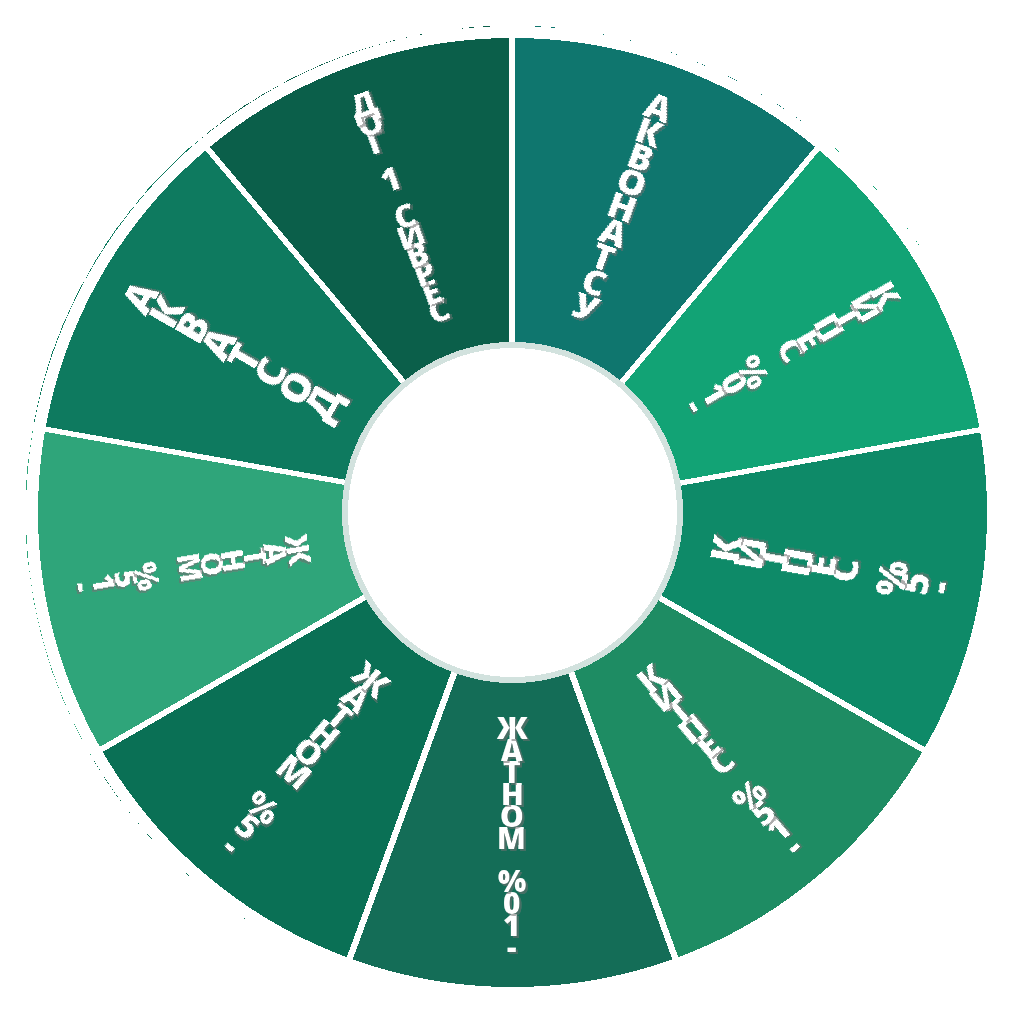
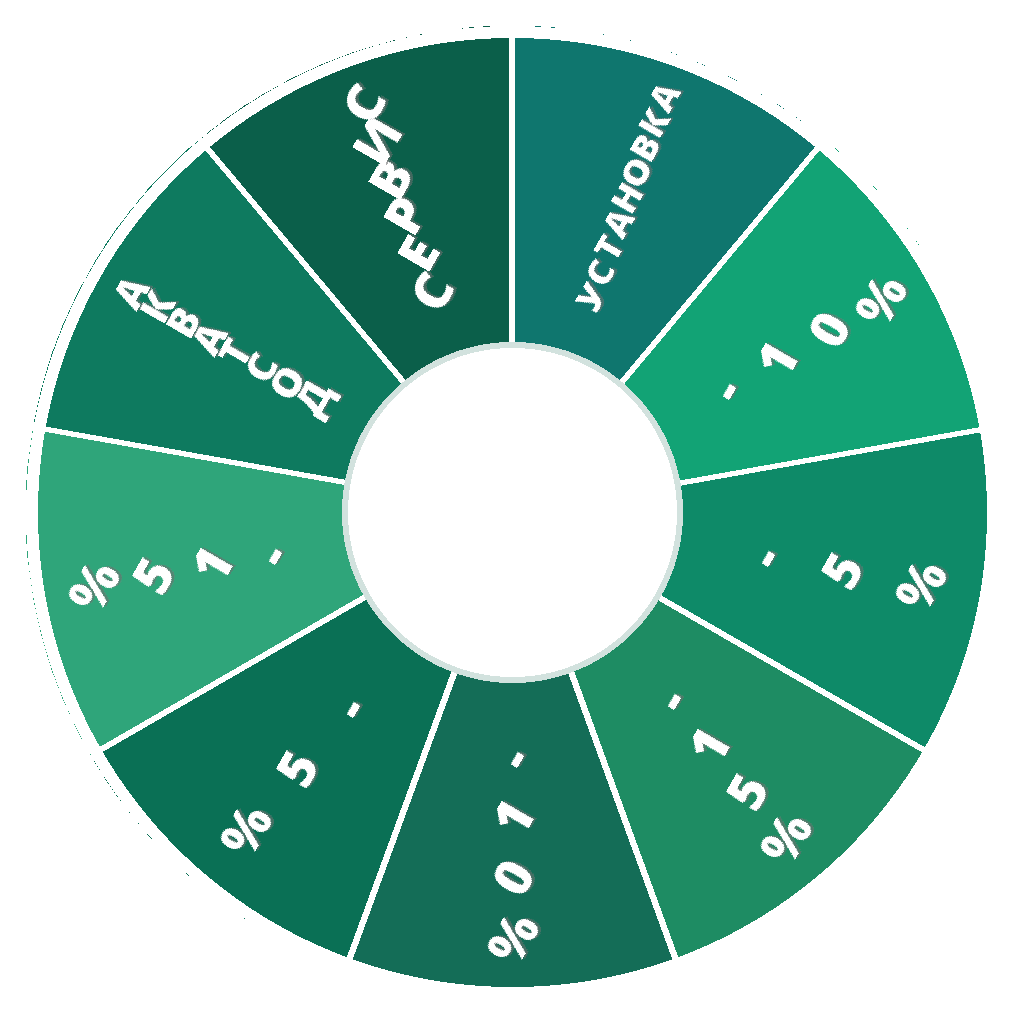
Рулетка: короткие читаемые подписи с наклоном 60°, таблица всех бонусов под колесом

diff --git a/index.html b/index.html
@@ -1182,6 +1182,20 @@
       </div>
       <button class="wheel-spin" id="wheel-spin" type="button">Крутить</button>
     </div>
+    <div class="wheel-prizes">
+      <div class="wheel-prizes__title">Все бонусы рулетки:</div>
+      <ul class="wheel-prizes__list">
+        <li>Установка в подарок</li>
+        <li>Скидка 10% на септик</li>
+        <li>Скидка 5% на септик</li>
+        <li>Скидка 15% на септик</li>
+        <li>Скидка 10% на монтаж</li>
+        <li>Скидка 5% на монтаж</li>
+        <li>Скидка 15% на монтаж</li>
+        <li>Бесплатная доставка по области</li>
+        <li>Сервисное обслуживание 1 год в подарок</li>
+      </ul>
+    </div>
     <div class="wheel-result" id="wheel-result" hidden>
       <p class="wheel-result__title" id="wheel-result-title"></p>
       <p class="wheel-result__text">Промокод пришлём в чат вместе с расчётом.</p>

diff --git a/css/styles.css b/css/styles.css
@@ -587,6 +587,19 @@ a:hover { color: var(--green-dark); }
   .wheel-mascot { width: 84px; left: -32px; bottom: -10px; }
 }
 .wheel-spin:disabled { opacity: .75; cursor: default; }
+.wheel-prizes {
+  text-align: left; margin: 0 0 16px; padding: 12px 14px;
+  background: var(--bg-soft); border: 1px solid var(--line); border-radius: 12px;
+}
+.wheel-prizes__title { font-size: 13px; font-weight: 800; color: var(--navy); margin-bottom: 8px; }
+.wheel-prizes__list {
+  display: grid; grid-template-columns: 1fr 1fr; gap: 5px 14px;
+  margin: 0; padding: 0; list-style: none;
+}
+.wheel-prizes__list li { font-size: 12px; line-height: 1.35; color: var(--navy-soft); }
+@media (max-width: 380px) {
+  .wheel-prizes__list { grid-template-columns: 1fr; }
+}
 .wheel-result { background: var(--green-light); border: 1px solid var(--line); border-radius: 14px; padding: 16px 16px 14px; }
 .wheel-result__title { font-size: 18px; font-weight: 800; color: var(--navy); margin-bottom: 4px; }
 .wheel-result__text { font-size: 13.5px; color: var(--muted); margin-bottom: 12px; }
